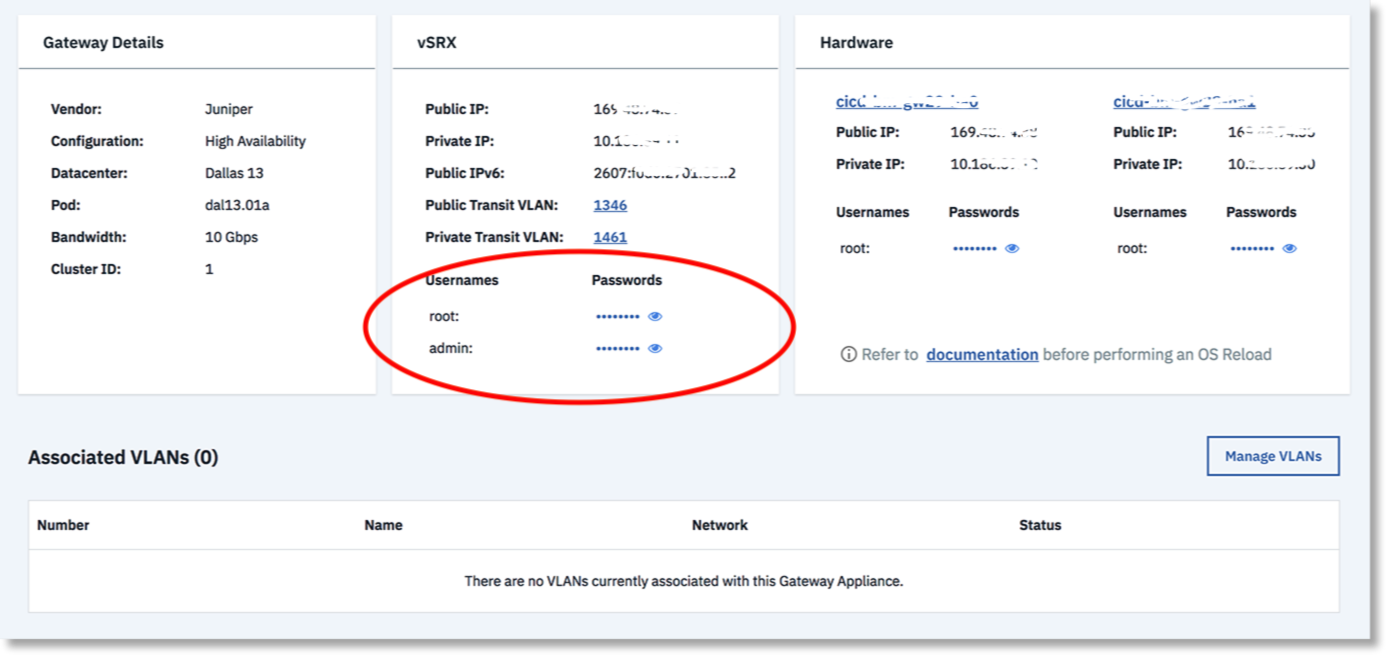
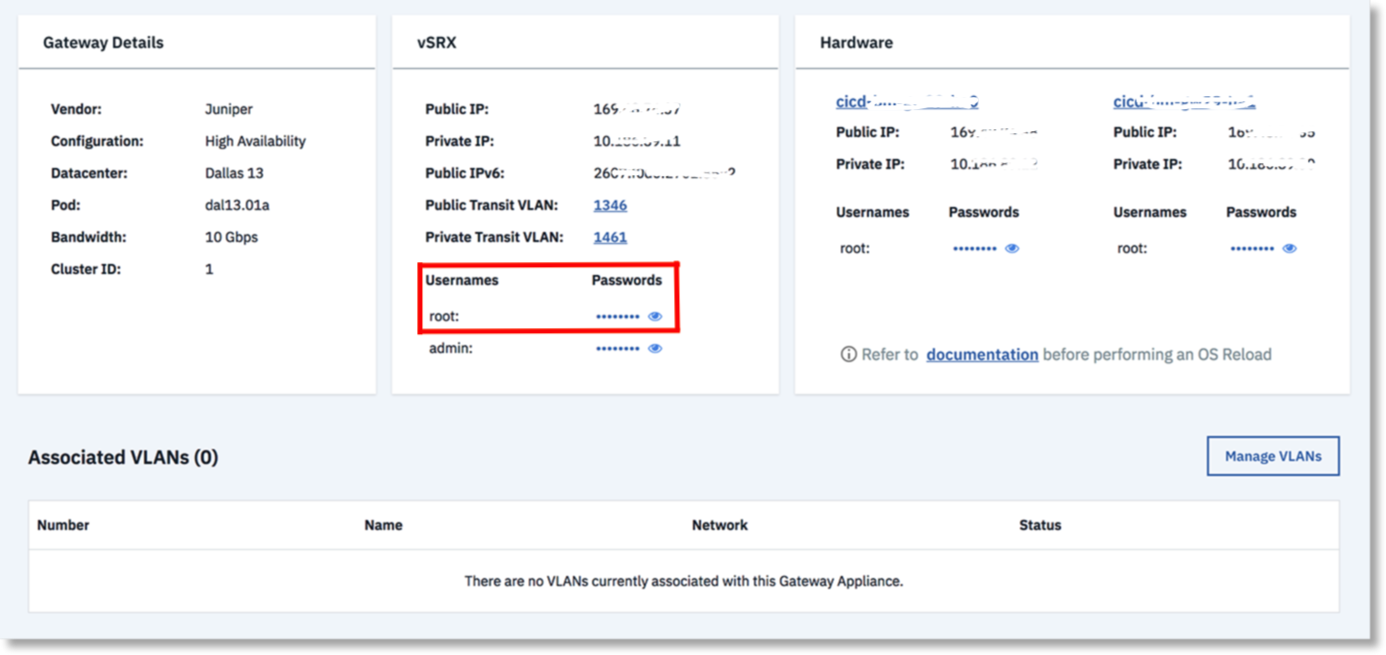
update the screenshot and the wording

diff --git a/os-reload.md b/os-reload.md
@@ -32,9 +32,9 @@ The OS reload process is used to rebuild a gateway server. The process performs 
 
 The process usually requires 1 hour 40 minutes to complete. Standalone Gateways will be out of service during this period. For Juniper High Availability (HA) Gateways, when you reload the OS on one of your servers, the vSRX will failover to another server in the cluster, and continue to process data traffic. Once the reload is complete, the server will rejoin the cluster.
 
-There are two requirements in order for an OS reload to succeed on an HA vSRX device:
+For successful reload or rebuild cluster on an HA vSRX:
 
-* vSRX Gateway password must match password on file(IMS Database). Customer must match password shown in portal for vSRX.
+* The root password for the provisioned vSRX Gateway must match the root password defined on the vSRX portal. The password defined in the portal was defined when the Gateway was first provisioned and may not match the current Gateway password if the password was changed after the initial provisioning. SSH to the vSRX Gateway and change the root password to match then attempt the OS Reload or Rebuild Cluster operation.
 
   <img src="images/gw-vsrx-password.png" alt="drawing" style="width: 700px;"/>
 
